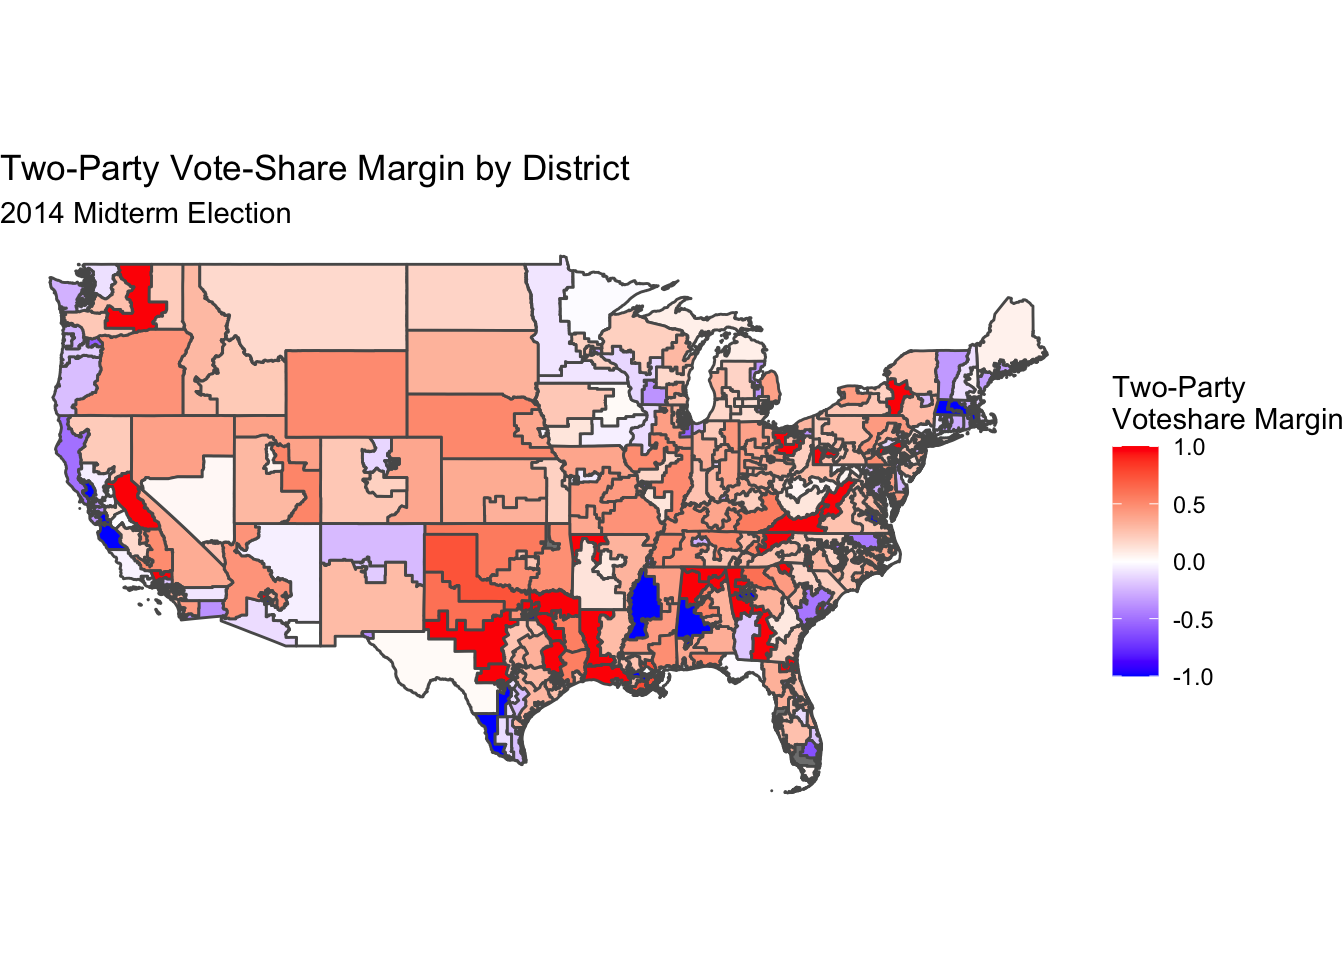
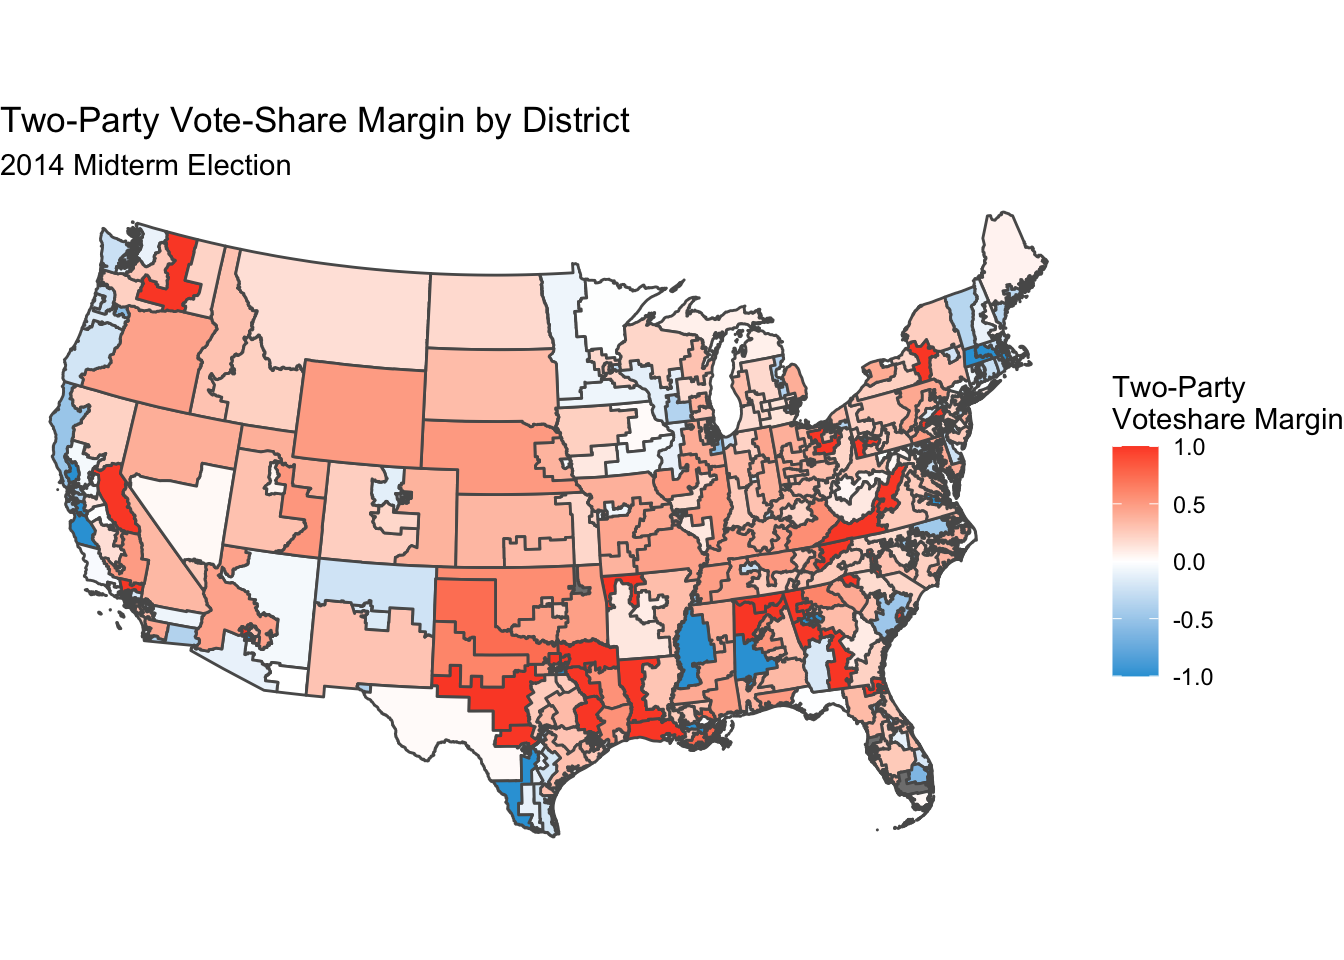
blog 1 text

Changed region(s): [[0.0, 0.0938, 0.7812, 0.875], [0.8125, 0.5938, 0.875, 0.7188], [0.8125, 0.4688, 0.875, 0.5]]

diff --git a/public/post/2022-09-14-introduction-to-election-analytics-week-1/index.html b/public/post/2022-09-14-introduction-to-election-analytics-week-1/index.html
@@ -64,8 +64,34 @@
 		
 
 
+<div id="introduction" class="section level1">
+<h1>Introduction</h1>
+<p>This series of blogs leading up to the 2022 US Midterm Elections will aim to predict the outcome for the House of Representatives. This project was created in Gov 1347: Election Analytics, a course taught by Professor Ryan Enos at Harvard University. This first blog aims to explore the two-party vote-share margin for the House of Representatives in order to identify</p>
+</div>
+<div id="midterm-elections" class="section level1">
+<h1>2014 Midterm Elections</h1>
+<p>First, we examine the 2014 two-party vote-share margin across the United States by state. We define two-party vote-share margin as the difference between votes for the Republican and Democratic candidate divided by the sum of the votes for the Republican and Democratic cnadidate. Here, as well as throughout the rest of the blog, red indicates greater Republican votes and blue indicates greater Democratic votes.</p>
 <p><img src="http://example.org/post/2022-09-14-introduction-to-election-analytics-week-1/index_files/figure-html/unnamed-chunk-1-1.png" width="672" /></p>
+<p>This map is largely as we expect. It confirms the general geographical bias of Democrats on the coasts and Republicans elsewhere, as well as showing that there were quite significant Republican victories across the country. Technically, winning a large vote-share margin is bad for a party, since that means that your voters are clustered in one area and the additional votes over what you needed to beat the other party are “wasted”. This is a problem for both parties, in particular the northeastern states for the Democratic Party, and some Western and Southern states for the Republican Party. This point is better illustrated, however, in the next map, which divides vote-share margin down to the congressional district level for more detail.</p>
 <p><img src="http://example.org/post/2022-09-14-introduction-to-election-analytics-week-1/index_files/figure-html/unnamed-chunk-2-1.png" width="672" /></p>
+<p>Here, we can clearly see that some districts have a vote-share margin of 1 or -1, indicating that a Republican or a Democrat ran unopposed in that district. This district map also indicates quite a bit more rigidity in who wins certain districts - this simplifies our job of predicting the midterm elections since we can assume that if one party won by large margins year-in and year-out, they’re very likely to win again. That doesn’t mean that there aren’t swing districts, however, these still exist and make the endeavor of attempting to predict the election useful.</p>
+</div>
+<div id="midterm-elections-1" class="section level1">
+<h1>2018 Midterm Elections</h1>
+<p>The 2018 midterm elections made quite a drastic swing back to Democrats, as can be seen in the maps below.</p>
+<p><img src="http://example.org/post/2022-09-14-introduction-to-election-analytics-week-1/index_files/figure-html/unnamed-chunk-3-1.png" width="672" /></p>
+<p>We can see from the above map that Democrats made gains compared to 2014 nearly everywhere, and succeeded in flipping the vote-share margin in states in the Midwest and West from red to blue. This is also shown when we drill down to congressional districts.</p>
+<p><img src="http://example.org/post/2022-09-14-introduction-to-election-analytics-week-1/index_files/figure-html/unnamed-chunk-4-1.png" width="672" /></p>
+<p>This above map shows another interesting fact beyond greater Democratic victories. The number of unopposed Republican runs fell greatly. Though these seats did not flip by any means, especially throughout the South, Republicans had to face a challenger for seats that they won unopposed in 2014. There are also many more swing districts throughout the country.</p>
+</div>
+<div id="quantifying-swing" class="section level1">
+<h1>Quantifying Swing</h1>
+<p>In order to quantify the changes that we see from 2014 to 2018, we can use a measure called swing. Swing is calculated in the following way where R and D indicate the respective number of votes for the party and y indicates year:</p>
+<p><span class="math inline">\(\frac{R_y}{D_y+R_y} - \frac{R_{y-4}}{D_{y-4} + R_{y-4}}\)</span></p>
+<p>Plotting this for every district creates the following map:</p>
+<p><img src="http://example.org/post/2022-09-14-introduction-to-election-analytics-week-1/index_files/figure-html/unnamed-chunk-5-1.png" width="672" /></p>
+<p>This graph fully confirms the changes that we saw between the 2014 and 2018 election in that almost every district across the country swung blue. The goal for these next few weeks leading up to the election is to work to predict the change from 2018 to this year. As will be shown in following weeks, however, swing is predicted to be nowhere near as blue.</p>
+</div>
 
 
 		
@@ -82,7 +108,7 @@
         		<footer>
 			
 			<span>
-			&copy; <time datetime="2022-09-15 00:19:36.07513 -0400 EDT m=&#43;0.247415043">2022</time> . Made with <a href='https://gohugo.io'>Hugo</a> using the <a href='https://github.com/EmielH/tale-hugo/'>Tale</a> theme.
+			&copy; <time datetime="2022-09-15 09:36:01.429725 -0400 EDT m=&#43;0.158094001">2022</time> . Made with <a href='https://gohugo.io'>Hugo</a> using the <a href='https://github.com/EmielH/tale-hugo/'>Tale</a> theme.
 			</span>
 		</footer>
 

diff --git a/content/post/2022-09-14-introduction-to-election-analytics-week-1/index.html b/content/post/2022-09-14-introduction-to-election-analytics-week-1/index.html
@@ -9,5 +9,31 @@ tags: []
 
 
 
+<div id="introduction" class="section level1">
+<h1>Introduction</h1>
+<p>This series of blogs leading up to the 2022 US Midterm Elections will aim to predict the outcome for the House of Representatives. This project was created in Gov 1347: Election Analytics, a course taught by Professor Ryan Enos at Harvard University. This first blog aims to explore the two-party vote-share margin for the House of Representatives in order to identify</p>
+</div>
+<div id="midterm-elections" class="section level1">
+<h1>2014 Midterm Elections</h1>
+<p>First, we examine the 2014 two-party vote-share margin across the United States by state. We define two-party vote-share margin as the difference between votes for the Republican and Democratic candidate divided by the sum of the votes for the Republican and Democratic cnadidate. Here, as well as throughout the rest of the blog, red indicates greater Republican votes and blue indicates greater Democratic votes.</p>
 <p><img src="{{< blogdown/postref >}}index_files/figure-html/unnamed-chunk-1-1.png" width="672" /></p>
+<p>This map is largely as we expect. It confirms the general geographical bias of Democrats on the coasts and Republicans elsewhere, as well as showing that there were quite significant Republican victories across the country. Technically, winning a large vote-share margin is bad for a party, since that means that your voters are clustered in one area and the additional votes over what you needed to beat the other party are “wasted”. This is a problem for both parties, in particular the northeastern states for the Democratic Party, and some Western and Southern states for the Republican Party. This point is better illustrated, however, in the next map, which divides vote-share margin down to the congressional district level for more detail.</p>
 <p><img src="{{< blogdown/postref >}}index_files/figure-html/unnamed-chunk-2-1.png" width="672" /></p>
+<p>Here, we can clearly see that some districts have a vote-share margin of 1 or -1, indicating that a Republican or a Democrat ran unopposed in that district. This district map also indicates quite a bit more rigidity in who wins certain districts - this simplifies our job of predicting the midterm elections since we can assume that if one party won by large margins year-in and year-out, they’re very likely to win again. That doesn’t mean that there aren’t swing districts, however, these still exist and make the endeavor of attempting to predict the election useful.</p>
+</div>
+<div id="midterm-elections-1" class="section level1">
+<h1>2018 Midterm Elections</h1>
+<p>The 2018 midterm elections made quite a drastic swing back to Democrats, as can be seen in the maps below.</p>
+<p><img src="{{< blogdown/postref >}}index_files/figure-html/unnamed-chunk-3-1.png" width="672" /></p>
+<p>We can see from the above map that Democrats made gains compared to 2014 nearly everywhere, and succeeded in flipping the vote-share margin in states in the Midwest and West from red to blue. This is also shown when we drill down to congressional districts.</p>
+<p><img src="{{< blogdown/postref >}}index_files/figure-html/unnamed-chunk-4-1.png" width="672" /></p>
+<p>This above map shows another interesting fact beyond greater Democratic victories. The number of unopposed Republican runs fell greatly. Though these seats did not flip by any means, especially throughout the South, Republicans had to face a challenger for seats that they won unopposed in 2014. There are also many more swing districts throughout the country.</p>
+</div>
+<div id="quantifying-swing" class="section level1">
+<h1>Quantifying Swing</h1>
+<p>In order to quantify the changes that we see from 2014 to 2018, we can use a measure called swing. Swing is calculated in the following way where R and D indicate the respective number of votes for the party and y indicates year:</p>
+<p><span class="math inline">\(\frac{R_y}{D_y+R_y} - \frac{R_{y-4}}{D_{y-4} + R_{y-4}}\)</span></p>
+<p>Plotting this for every district creates the following map:</p>
+<p><img src="{{< blogdown/postref >}}index_files/figure-html/unnamed-chunk-5-1.png" width="672" /></p>
+<p>This graph fully confirms the changes that we saw between the 2014 and 2018 election in that almost every district across the country swung blue. The goal for these next few weeks leading up to the election is to work to predict the change from 2018 to this year. As will be shown in following weeks, however, swing is predicted to be nowhere near as blue.</p>
+</div>

diff --git a/public/index.html b/public/index.html
@@ -59,7 +59,8 @@
         <div class="catalogue-line"></div>
 
         <p>
-             
+            Introduction This series of blogs leading up to the 2022 US Midterm Elections will aim to predict the outcome for the House of Representatives. This project was created in Gov 1347: Election Analytics, a course taught by Professor Ryan Enos at Harvard University. This first blog aims to explore the two-party vote-share margin for the House of Representatives in order to identify
+2014 Midterm Elections First, we examine the 2014 two-party vote-share margin across the United States by state.
         </p>
     </div>
 </a>
@@ -92,7 +93,7 @@
         		<footer>
 			
 			<span>
-			&copy; <time datetime="2022-09-15 00:19:36.075459 -0400 EDT m=&#43;0.247744251">2022</time> . Made with <a href='https://gohugo.io'>Hugo</a> using the <a href='https://github.com/EmielH/tale-hugo/'>Tale</a> theme.
+			&copy; <time datetime="2022-09-15 09:36:01.430318 -0400 EDT m=&#43;0.158686668">2022</time> . Made with <a href='https://gohugo.io'>Hugo</a> using the <a href='https://github.com/EmielH/tale-hugo/'>Tale</a> theme.
 			</span>
 		</footer>
 

diff --git a/public/post/index.html b/public/post/index.html
@@ -54,7 +54,8 @@
         <div class="catalogue-line"></div>
 
         <p>
-             
+            Introduction This series of blogs leading up to the 2022 US Midterm Elections will aim to predict the outcome for the House of Representatives. This project was created in Gov 1347: Election Analytics, a course taught by Professor Ryan Enos at Harvard University. This first blog aims to explore the two-party vote-share margin for the House of Representatives in order to identify
+2014 Midterm Elections First, we examine the 2014 two-party vote-share margin across the United States by state.
         </p>
     </div>
 </a>
@@ -87,7 +88,7 @@
         		<footer>
 			
 			<span>
-			&copy; <time datetime="2022-09-15 00:19:36.075483 -0400 EDT m=&#43;0.247767918">2022</time> . Made with <a href='https://gohugo.io'>Hugo</a> using the <a href='https://github.com/EmielH/tale-hugo/'>Tale</a> theme.
+			&copy; <time datetime="2022-09-15 09:36:01.430311 -0400 EDT m=&#43;0.158679626">2022</time> . Made with <a href='https://gohugo.io'>Hugo</a> using the <a href='https://github.com/EmielH/tale-hugo/'>Tale</a> theme.
 			</span>
 		</footer>
 

diff --git a/public/post/2022-09-14-test-post-1/index.html b/public/post/2022-09-14-test-post-1/index.html
@@ -81,7 +81,7 @@
         		<footer>
 			
 			<span>
-			&copy; <time datetime="2022-09-15 00:19:36.074698 -0400 EDT m=&#43;0.246983251">2022</time> . Made with <a href='https://gohugo.io'>Hugo</a> using the <a href='https://github.com/EmielH/tale-hugo/'>Tale</a> theme.
+			&copy; <time datetime="2022-09-15 09:36:01.429271 -0400 EDT m=&#43;0.157639543">2022</time> . Made with <a href='https://gohugo.io'>Hugo</a> using the <a href='https://github.com/EmielH/tale-hugo/'>Tale</a> theme.
 			</span>
 		</footer>
 

diff --git a/public/categories/index.html b/public/categories/index.html
@@ -57,7 +57,7 @@
         		<footer>
 			
 			<span>
-			&copy; <time datetime="2022-09-15 00:19:36.06941 -0400 EDT m=&#43;0.241695335">2022</time> . Made with <a href='https://gohugo.io'>Hugo</a> using the <a href='https://github.com/EmielH/tale-hugo/'>Tale</a> theme.
+			&copy; <time datetime="2022-09-15 09:36:01.422712 -0400 EDT m=&#43;0.151080293">2022</time> . Made with <a href='https://gohugo.io'>Hugo</a> using the <a href='https://github.com/EmielH/tale-hugo/'>Tale</a> theme.
 			</span>
 		</footer>
 

diff --git a/public/tags/index.html b/public/tags/index.html
@@ -57,7 +57,7 @@
         		<footer>
 			
 			<span>
-			&copy; <time datetime="2022-09-15 00:19:36.06941 -0400 EDT m=&#43;0.241695710">2022</time> . Made with <a href='https://gohugo.io'>Hugo</a> using the <a href='https://github.com/EmielH/tale-hugo/'>Tale</a> theme.
+			&copy; <time datetime="2022-09-15 09:36:01.419819 -0400 EDT m=&#43;0.148187626">2022</time> . Made with <a href='https://gohugo.io'>Hugo</a> using the <a href='https://github.com/EmielH/tale-hugo/'>Tale</a> theme.
 			</span>
 		</footer>
 
